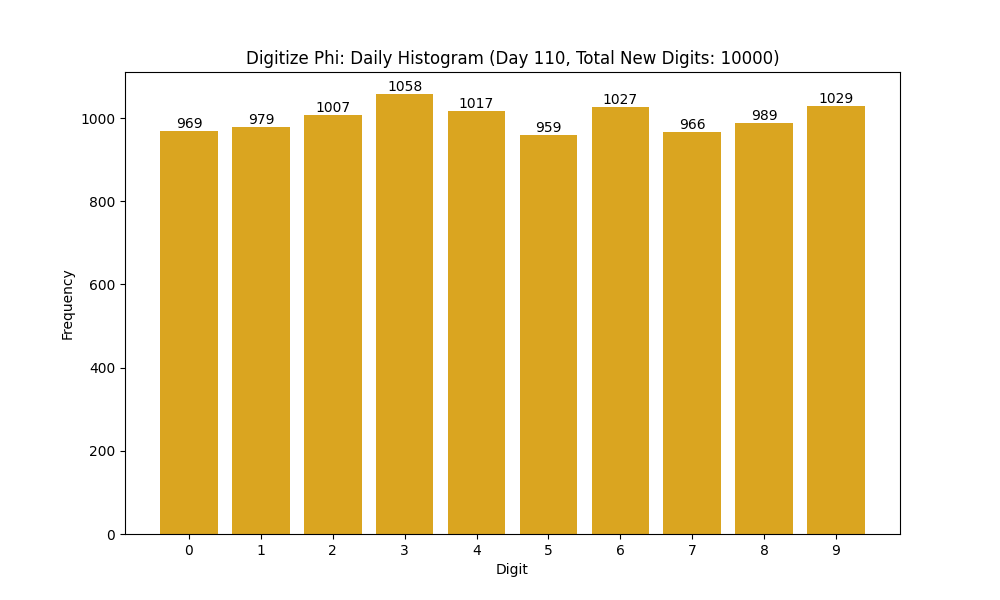
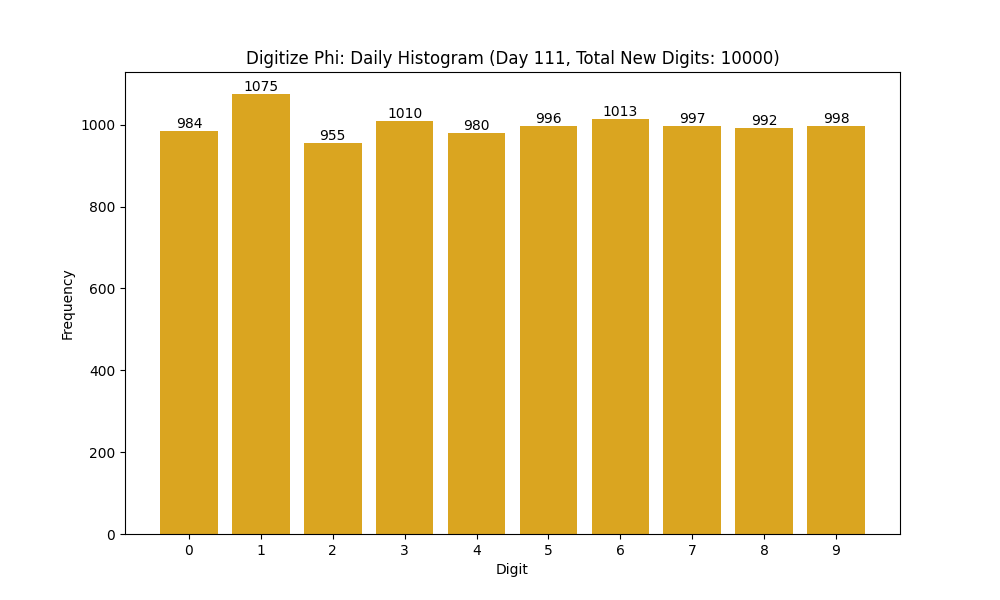
job(assets, json, html, xml): Digitize Phi: Update assets for Day 111 in 4 PNG files, 3 JSON files, 2 HTML files, and 1 XML file

diff --git a/til/digitize-phi/archives/histogram.html b/til/digitize-phi/archives/histogram.html
@@ -28,6 +28,12 @@
         <div class="histogram-archive">
 
             <div class="histogram-entry">
+                <h2>Day 111: Digits 1,100,001 - 1,110,000</h2>
+                <p class="histogram-date">October 14, 2025</p>
+                <img src="../../../assets/digitize-phi/archives/111_histogram.png" alt="Histogram of Phi digit frequencies for day 111">
+            </div>
+
+            <div class="histogram-entry">
                 <h2>Day 110: Digits 1,090,001 - 1,100,000</h2>
                 <p class="histogram-date">October 13, 2025</p>
                 <img src="../../../assets/digitize-phi/archives/108_histogram.png" alt="Histogram of Phi digit frequencies for day 110">

diff --git a/til/digitize-phi/archives/heatmap.html b/til/digitize-phi/archives/heatmap.html
@@ -27,6 +27,11 @@
 
         <div class="heatmap-archive">
 
+            <div class="heatmap-entry">
+                <h2>Day 111: Digits 1,100,001 - 1,110,000</h2>
+                <p class="heatmap-date">October 14, 2025</p>
+                <img src="../../../assets/digitize-phi/archives/111_heatmap.png" alt="Heatmap of Phi digit frequencies for day 111">
+            </div>
 
             <div class="heatmap-entry">
                 <h2>Day 110: Digits 1,090,001 - 1,100,000</h2>
